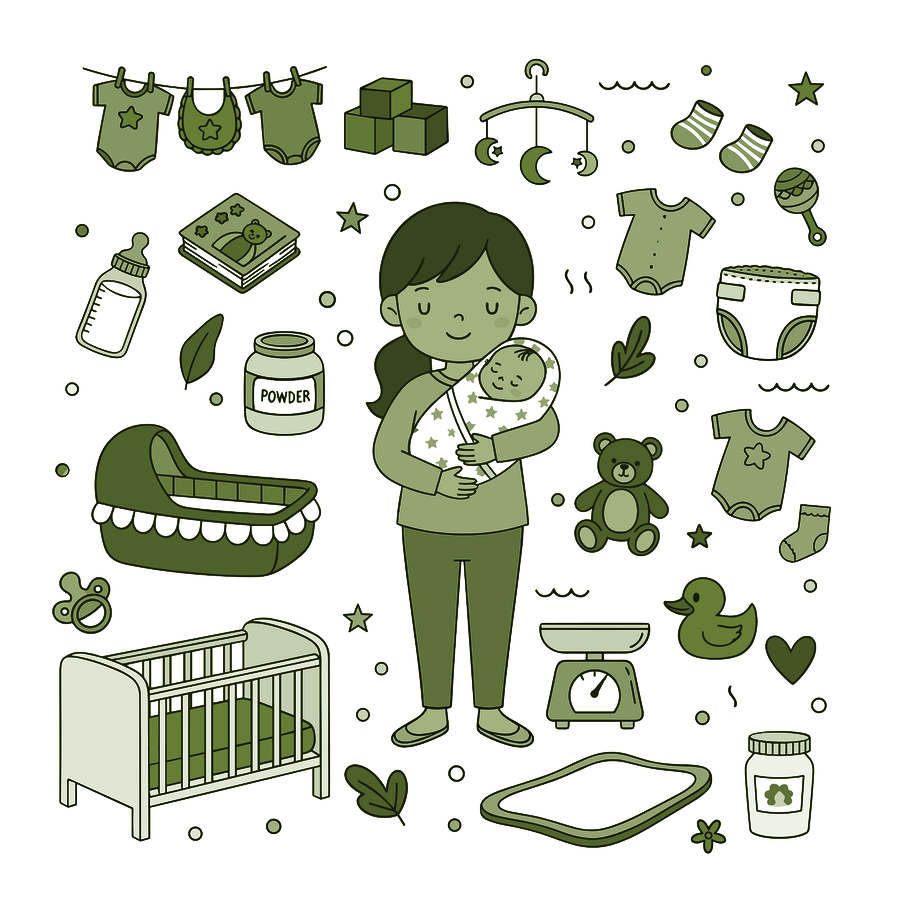
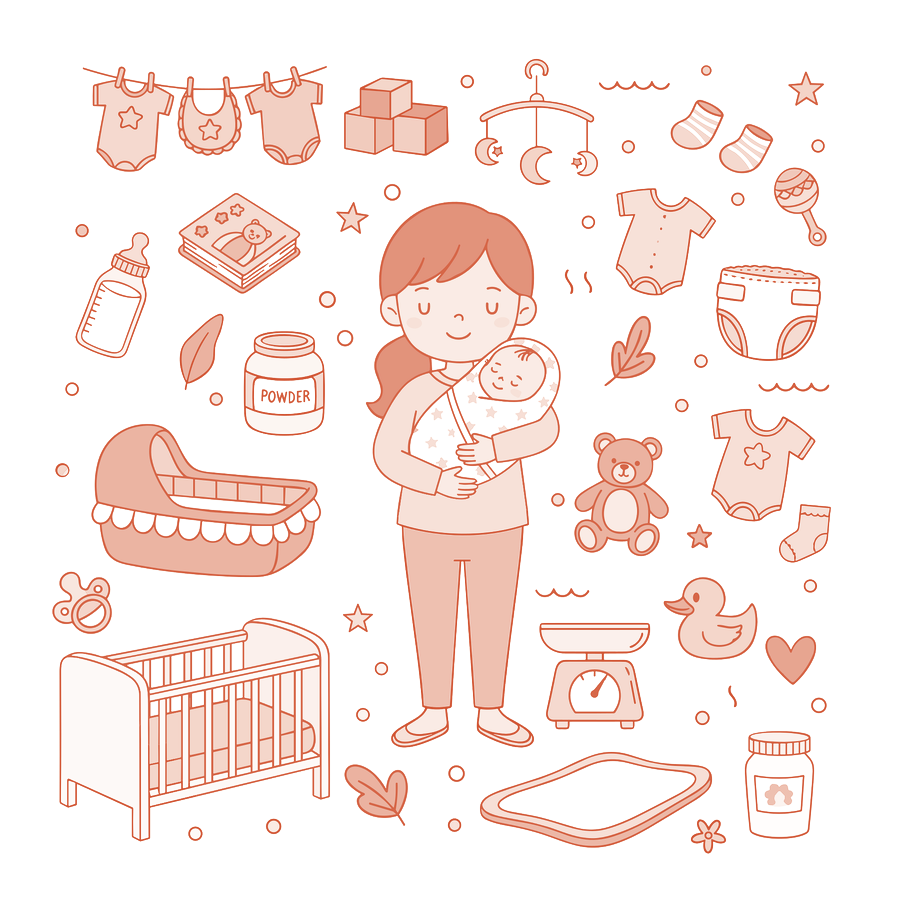
Redesign theme to warm, vibrant light palette; swap hero illustration
Replaces the black+olive dark theme with a warm cream background and
a coral/gold/teal accent palette, pulled from a new watercolor
illustration of a pregnant woman. The illustration now fills the
hero's 3D visualizer card directly (its white background blends into
the new light glass-card style, no matting needed), and the value
grid's decorative collage is re-tinted to a matching coral duotone.

Claude-Session: https://claude.ai/code/session_01CzJWMX2SJ1VAwsoETCnf2M

diff --git a/src/app/globals.css b/src/app/globals.css
@@ -1,19 +1,19 @@
 @import "tailwindcss";
 
 :root {
-  --background: #0a0c07;
-  --foreground: #eef0e4;
+  --background: #fdf6ef;
+  --foreground: #3d2b28;
 
-  --blush: #d8a94a;
-  --blush-deep: #b8862c;
-  --sage: #3d4a26;
-  --sage-deep: #7c9a3f;
-  --cream: #14170e;
-  --slate: #eef0e4;
-  --accent: #7c9a3f;
-  --accent-deep: #556b2f;
-  --panel: #eef0e4;
-  --ink: #171b0e;
+  --blush: #f2c14e;
+  --blush-deep: #d99a2b;
+  --sage: #bfe0d4;
+  --sage-deep: #4f9182;
+  --cream: #fffaf3;
+  --slate: #3d2b28;
+  --accent: #ef7a55;
+  --accent-deep: #d1512f;
+  --panel: #ffffff;
+  --ink: #3d2b28;
 }
 
 @theme inline {
@@ -34,25 +34,26 @@
 }
 
 body {
-  background: radial-gradient(ellipse 120% 80% at 20% -10%, #1b220f 0%, transparent 60%),
-    radial-gradient(ellipse 100% 60% at 100% 20%, #131a0c 0%, transparent 55%),
-    linear-gradient(180deg, #0a0c07 0%, #0d0f09 50%, #080905 100%);
+  background: radial-gradient(ellipse 110% 70% at 15% -10%, rgba(242, 193, 78, 0.35) 0%, transparent 60%),
+    radial-gradient(ellipse 100% 60% at 100% 10%, rgba(191, 224, 212, 0.4) 0%, transparent 55%),
+    radial-gradient(ellipse 90% 60% at 50% 110%, rgba(239, 122, 85, 0.18) 0%, transparent 60%),
+    linear-gradient(180deg, #fdf6ef 0%, #fbf1e6 50%, #fdf6ef 100%);
   color: var(--foreground);
   font-family: var(--font-sans), -apple-system, BlinkMacSystemFont, "Segoe UI", sans-serif;
 }
 
 .glass {
-  background: rgba(238, 240, 228, 0.06);
+  background: rgba(255, 255, 255, 0.55);
   backdrop-filter: blur(16px);
   -webkit-backdrop-filter: blur(16px);
-  border: 1px solid rgba(238, 240, 228, 0.12);
+  border: 1px solid rgba(255, 255, 255, 0.7);
 }
 
 .glass-strong {
-  background: rgba(238, 240, 228, 0.09);
+  background: rgba(255, 255, 255, 0.72);
   backdrop-filter: blur(20px);
   -webkit-backdrop-filter: blur(20px);
-  border: 1px solid rgba(238, 240, 228, 0.16);
+  border: 1px solid rgba(255, 255, 255, 0.85);
 }
 
 .text-balance {

diff --git a/src/components/Visualizer3D.tsx b/src/components/Visualizer3D.tsx
@@ -26,12 +26,12 @@ export default function Visualizer3D({
         transition={{ duration: 10, repeat: Infinity, ease: "easeInOut" }}
       >
         <motion.div
-          className="animate-float relative h-[80%] w-[80%]"
+          className="animate-float relative h-[88%] w-[88%]"
           whileHover={{ scale: 1.04 }}
         >
           <Image
-            src="/images/hero-illustration.png"
-            alt="Line-art illustration of a mother holding her baby"
+            src="/images/hero-illustration-2.jpg"
+            alt="Watercolor illustration of a pregnant woman surrounded by flowers and hearts"
             fill
             sizes="(max-width: 768px) 320px, 400px"
             className="object-contain drop-shadow-2xl"
